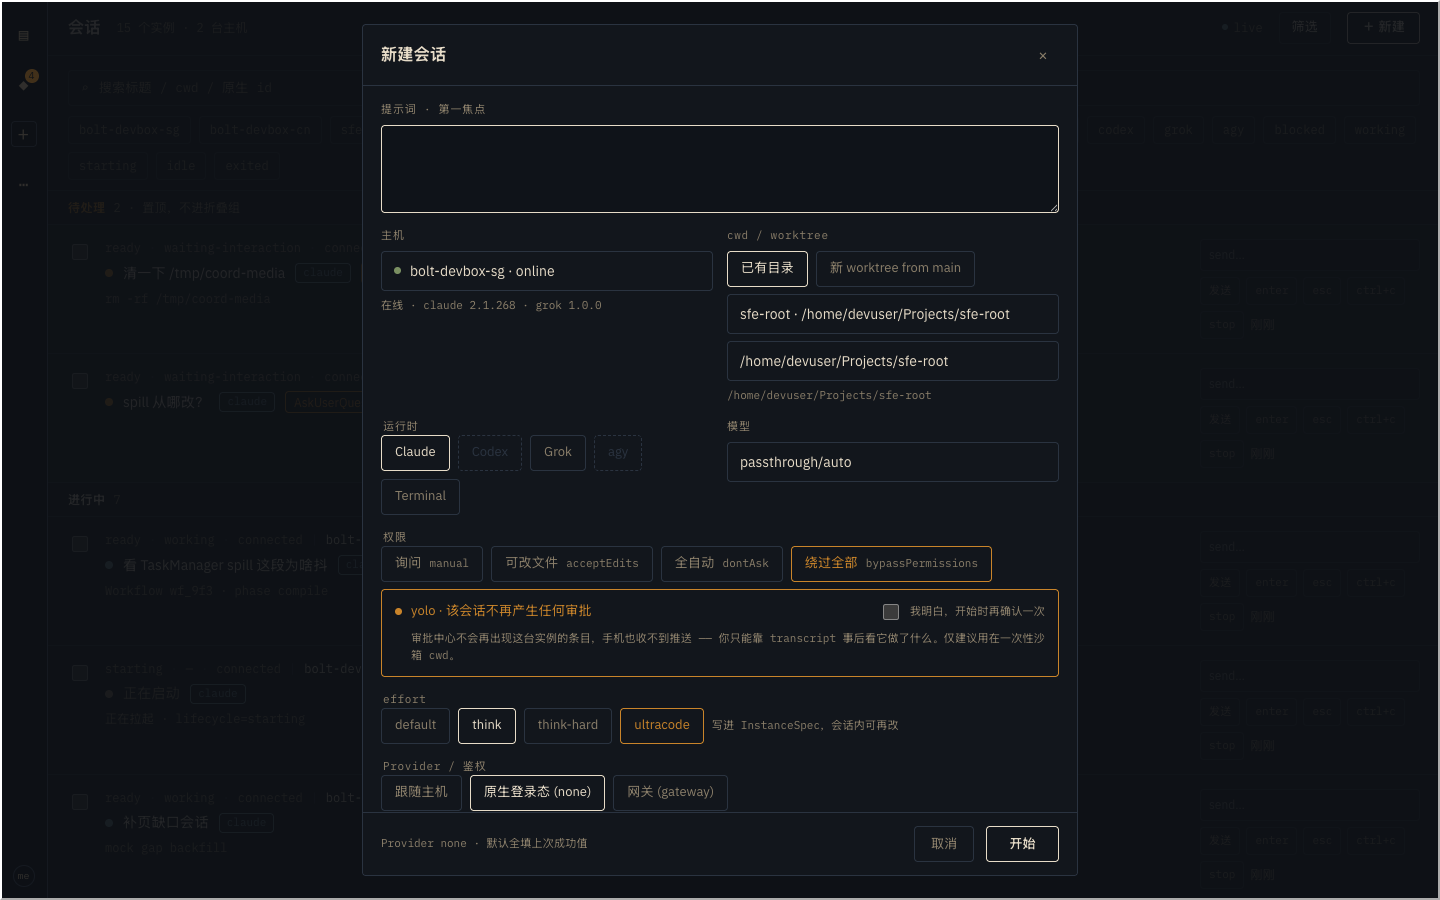
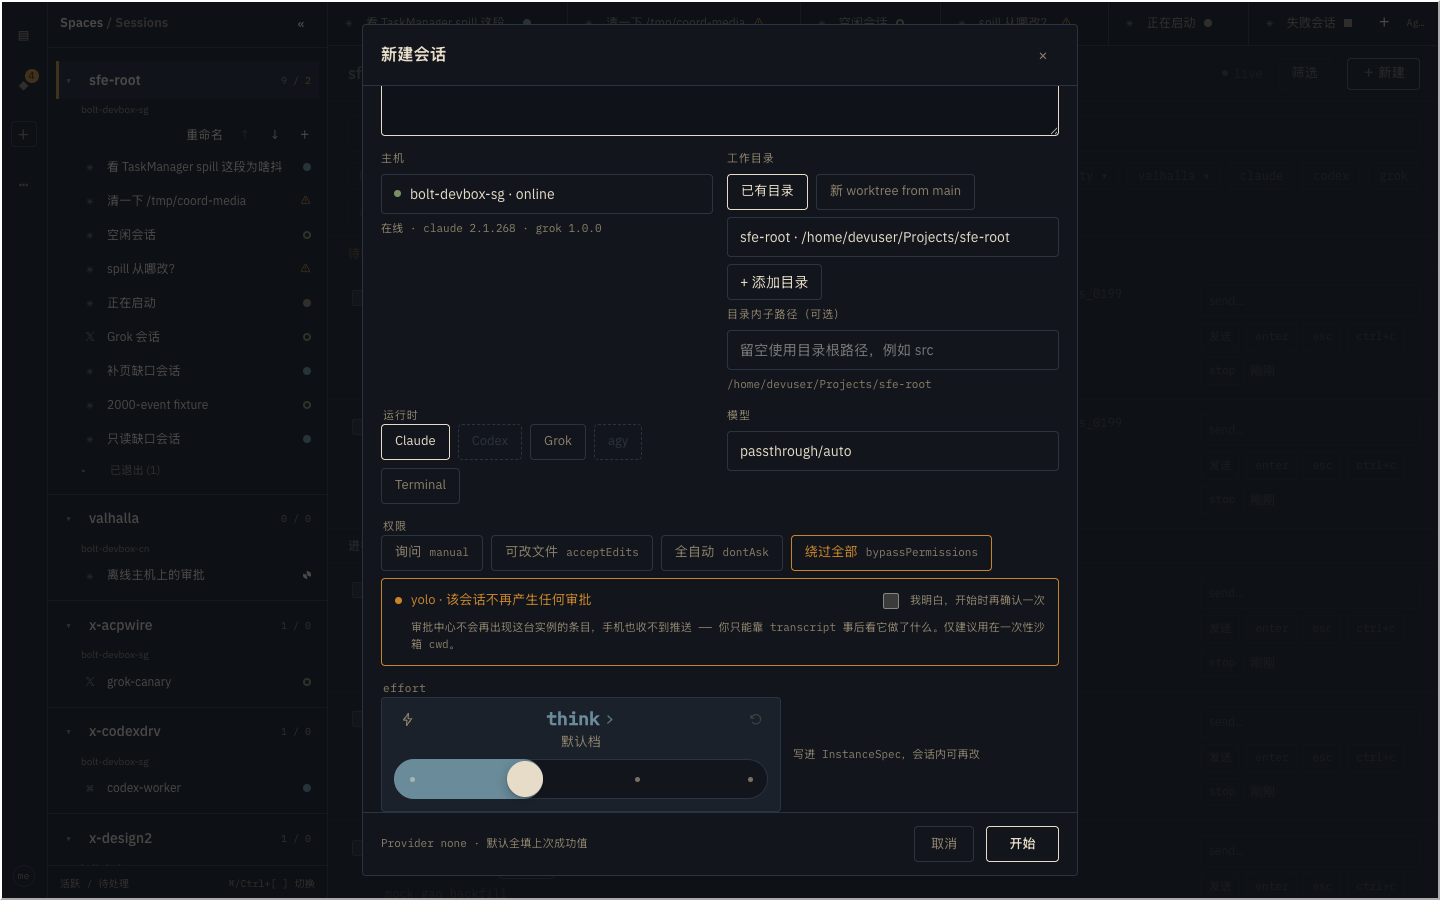
test(web): new-session slider e2e, and stop e2e rewriting tracked evidence
- new-session.spec.ts: the inline card's role/tiers/pill geometry and
  fill-reaches-knob; setting the tier by keyboard alone and asserting the
  created instance carries it; the harness re-snap end to end, including
  `terminal` unmounting the card entirely.
- composer-effort.spec.ts: its two New Session assertions move from the tier
  chips to the slider.
- Both specs wrote screenshots straight into docs/design/evidence/, so a plain
  `pnpm test:e2e` dirtied tracked PNGs. They now write to the gitignored
  web/test-results/ unless REMUDA_EVIDENCE=1, matching providers-discovery.
- The hint wraps under the card once the sheet is narrower than its 400px.

Evidence: docs/design/evidence/new-session-slider-1.md — night/ledger at
1440/390, mid and top tier, effort-card crops, largest 26 KB.

diff --git a/web/tests/e2e/new-session.spec.ts b/web/tests/e2e/new-session.spec.ts
@@ -1,8 +1,57 @@
-import { expect, test } from "@playwright/test";
+import { expect, test, type Page } from "@playwright/test";
+import { mkdir } from "node:fs/promises";
 import path from "node:path";
 import { fileURLToPath } from "node:url";
 
-const evidence = path.join(path.dirname(fileURLToPath(import.meta.url)), "../../../docs/design/evidence");
+const here = path.dirname(fileURLToPath(import.meta.url));
+/**
+ * A default run must not rewrite tracked files, so shots land in the
+ * gitignored `test-results/`. Re-capture the committed evidence with
+ * REMUDA_EVIDENCE=1.
+ */
+const evidence = process.env.REMUDA_EVIDENCE === "1";
+const shotDir = evidence
+  ? path.join(here, "../../../docs/design/evidence")
+  : path.join(here, "../../test-results/new-session");
+
+/** The effort card only, so no personal path or hostname can land in a shot. */
+async function shotEffort(page: Page, name: string) {
+  await mkdir(shotDir, { recursive: true });
+  const card = page.getByTestId("new-session-effort");
+  await card.scrollIntoViewIfNeeded();
+  const box = await card.boundingBox();
+  expect(box).toBeTruthy();
+  const viewport = page.viewportSize() ?? { width: 1440, height: 900 };
+  const x = Math.max(0, Math.floor(box!.x) - 8);
+  const y = Math.max(0, Math.floor(box!.y) - 8);
+  await page.screenshot({
+    path: path.join(shotDir, name),
+    animations: "disabled",
+    clip: {
+      x,
+      y,
+      width: Math.max(1, Math.min(viewport.width - x, Math.ceil(box!.width) + 16)),
+      height: Math.max(1, Math.min(viewport.height - y, Math.ceil(box!.height) + 16)),
+    },
+  });
+}
+
+/** The pill's proportions, shared with the composer: ~40px track, ~36px knob. */
+async function assertPill(page: Page) {
+  const pill = await page.getByTestId("new-session-effort-track").boundingBox();
+  const knob = await page.getByTestId("new-session-effort-knob").boundingBox();
+  const fill = await page.getByTestId("new-session-effort-fill").boundingBox();
+  expect(pill).toBeTruthy();
+  expect(knob).toBeTruthy();
+  expect(fill).toBeTruthy();
+  expect(pill!.height).toBeGreaterThanOrEqual(36);
+  expect(pill!.height).toBeLessThanOrEqual(42);
+  expect(knob!.width).toBeGreaterThanOrEqual(32);
+  expect(knob!.width).toBeLessThanOrEqual(38);
+  // The fill runs under the knob to its far edge — no bare track beside the thumb.
+  expect(fill!.x + fill!.width).toBeGreaterThanOrEqual(knob!.x + knob!.width - 1);
+  expect(fill!.x).toBeLessThanOrEqual(pill!.x + 1);
+}
 
 test.describe("new session sheet", () => {
   test("mobile 30s path: focus prompt, type, start", async ({ page }) => {
@@ -39,7 +88,111 @@ test.describe("new session sheet", () => {
     await expect(page.getByTestId("view-switch-tty")).toHaveAttribute("aria-checked", "true");
     await expect(page.getByTestId("view-switch-structured")).toHaveAttribute("aria-checked", "false");
     if (test.info().project.name === "chromium") {
-      await page.screenshot({ path: path.join(evidence, "terminal-1-new-session.png"), animations: "disabled" });
+      await mkdir(shotDir, { recursive: true });
+      await page.screenshot({ path: path.join(shotDir, "terminal-1-new-session.png"), animations: "disabled" });
+    }
+  });
+
+  test("effort is the composer's slider and the keyboard value reaches the created instance", async ({ page }) => {
+    await page.goto("/sessions/new");
+    await expect(page.getByTestId("new-session-sheet")).toBeVisible();
+    const slider = page.getByTestId("new-session-effort-slider");
+    // Inline card, not a popover: the pill is on the page with no chip to open.
+    await expect(page.getByTestId("new-session-effort-slider-panel")).toHaveAttribute("data-view", "slider");
+    await expect(slider).toHaveAttribute("role", "slider");
+    await expect(slider).toHaveAttribute("data-tiers", "default,think,think-hard,ultracode");
+    await expect(slider).toHaveAttribute("data-name", "think");
+    await expect(page.getByTestId("new-session-effort")).toContainText("写进 InstanceSpec，会话内可再改");
+    await assertPill(page);
+
+    // Set the tier by keyboard alone, the way a discrete slider must answer.
+    await slider.focus();
+    await page.keyboard.press("Home");
+    await expect(slider).toHaveAttribute("data-name", "default");
+    await expect(slider).toHaveAttribute("aria-valuenow", "0");
+    await page.keyboard.press("ArrowRight");
+    await page.keyboard.press("ArrowRight");
+    await expect(slider).toHaveAttribute("data-name", "think-hard");
+    await expect(page.getByTestId("new-session-effort-title")).toHaveText("think-hard");
+    await expect(slider).toHaveAttribute("data-ember", "0");
+    await page.keyboard.press("End");
+    await expect(slider).toHaveAttribute("data-name", "ultracode");
+    await expect(slider).toHaveAttribute("data-ember", "1");
+    await expect(page.getByTestId("new-session-effort-embers")).toBeVisible();
+    await assertPill(page);
+
+    // Back off the top so the asserted value is not simply the End default.
+    await page.keyboard.press("ArrowLeft");
+    await expect(slider).toHaveAttribute("data-name", "think-hard");
+    await expect(page.getByTestId("new-session-effort")).toHaveAttribute("data-effort", "think-hard");
+
+    await page.getByTestId("new-session-prompt").fill("effort by keyboard");
+    await page.getByTestId("new-session-start").click();
+    await expect(page).toHaveURL(/\/s\//);
+    // The created instance carries the tier the slider was left on.
+    await expect(page.getByTestId("composer")).toHaveAttribute("data-effort", "think-hard");
+    await expect(page.getByTestId("composer")).toHaveAttribute("data-effort-index", "2");
+    await expect(page.getByTestId("model-effort-chip")).toContainText("think-hard");
+  });
+
+  test("the slider re-snaps onto the harness selected above", async ({ page }) => {
+    await page.goto("/sessions/new");
+    const slider = page.getByTestId("new-session-effort-slider");
+    await slider.focus();
+    await page.keyboard.press("End");
+    await expect(slider).toHaveAttribute("data-name", "ultracode");
+
+    // grok's table is three tiers; the top tier stays the top tier.
+    await page.getByTestId("new-session-kind-grok").click();
+    await expect(slider).toHaveAttribute("data-tiers", "quick,standard,max");
+    await expect(slider).toHaveAttribute("data-name", "max");
+    await expect(slider).toHaveAttribute("aria-valuemax", "2");
+    await expect(slider).toHaveAttribute("data-ember", "1");
+    await slider.focus();
+    await page.keyboard.press("Home");
+    await expect(slider).toHaveAttribute("data-name", "quick");
+
+    // ...and back to claude, renamed onto the four-tier table, ember dropped.
+    await page.getByTestId("new-session-kind-claude").click();
+    await expect(slider).toHaveAttribute("data-tiers", "default,think,think-hard,ultracode");
+    await expect(slider).toHaveAttribute("data-name", "default");
+    await expect(slider).toHaveAttribute("data-ember", "0");
+
+    // terminal has no effort axis at all, so the whole card goes.
+    await page.getByTestId("new-session-kind-terminal").click();
+    await expect(page.getByTestId("new-session-effort")).toHaveCount(0);
+  });
+
+  test("new session slider evidence: night/ledger at 1440 and 390", async ({ page }, info) => {
+    test.skip(info.project.name !== "chromium", "evidence shots from chromium only");
+    await page.emulateMedia({ reducedMotion: "reduce" });
+    for (const theme of ["night", "ledger"] as const) {
+      for (const [width, height, tag] of [
+        [1440, 900, "1440"],
+        [390, 844, "390"],
+      ] as const) {
+        await page.setViewportSize({ width, height });
+        await page.goto("/sessions/new");
+        await page.evaluate((next) => {
+          document.documentElement.setAttribute("data-theme", next);
+        }, theme);
+        const slider = page.getByTestId("new-session-effort-slider");
+        await expect(slider).toBeVisible();
+        // mid = a middle non-top tier, top = the ember tier.
+        for (const [state, keys] of [
+          ["mid", ["Home", "ArrowRight", "ArrowRight"]],
+          ["top", ["End"]],
+        ] as const) {
+          await slider.focus();
+          for (const key of keys) await page.keyboard.press(key);
+          await expect(slider).toHaveAttribute("data-ember", state === "top" ? "1" : "0");
+          await assertPill(page);
+          const card = await page.getByTestId("new-session-effort-slider-panel").boundingBox();
+          expect(card).toBeTruthy();
+          expect(card!.width).toBeLessThanOrEqual(Math.min(width, 401));
+          await shotEffort(page, `new-session-slider-1-${state}-${theme}-${tag}.png`);
+        }
+      }
     }
   });
 });

diff --git a/web/tests/e2e/composer-effort.spec.ts b/web/tests/e2e/composer-effort.spec.ts
@@ -3,19 +3,28 @@ import { mkdir } from "node:fs/promises";
 import path from "node:path";
 import { fileURLToPath } from "node:url";
 
-const evidence = path.join(path.dirname(fileURLToPath(import.meta.url)), "../../../docs/design/evidence");
+const here = path.dirname(fileURLToPath(import.meta.url));
+/**
+ * A default run must not rewrite tracked files, so shots land in the
+ * gitignored `test-results/`. Re-capture the committed evidence with
+ * REMUDA_EVIDENCE=1.
+ */
+const evidence = process.env.REMUDA_EVIDENCE === "1";
+const shotDir = evidence
+  ? path.join(here, "../../../docs/design/evidence")
+  : path.join(here, "../../test-results/composer-effort");
 
 function row(page: Page, text: string) {
   return page.getByTestId("session-row").filter({ hasText: text }).first();
 }
 
 async function shot(page: Page, name: string) {
-  await mkdir(evidence, { recursive: true });
-  await page.screenshot({ path: path.join(evidence, name), animations: "disabled" });
+  await mkdir(shotDir, { recursive: true });
+  await page.screenshot({ path: path.join(shotDir, name), animations: "disabled" });
 }
 
 async function shotComposer(page: Page, name: string) {
-  await mkdir(evidence, { recursive: true });
+  await mkdir(shotDir, { recursive: true });
   const composer = page.getByTestId("composer");
   const menu = page.getByTestId("effort-menu");
   await expect(menu).toBeVisible();
@@ -29,7 +38,7 @@ async function shotComposer(page: Page, name: string) {
   const right = Math.min(viewport.width, Math.ceil(Math.max(a!.x + a!.width, b!.x + b!.width)));
   const bottom = Math.min(viewport.height, Math.ceil(Math.max(a!.y + a!.height, b!.y + b!.height)));
   await page.screenshot({
-    path: path.join(evidence, name),
+    path: path.join(shotDir, name),
     animations: "disabled",
     clip: { x, y, width: Math.max(1, right - x), height: Math.max(1, bottom - y) },
   });
@@ -269,8 +278,12 @@ test.describe("composer control bar and effort", () => {
       expect(ackBox).toBeTruthy();
       expect(ackBox!.y).toBeGreaterThanOrEqual(yoloBox!.y - 2);
       expect(ackBox!.y + ackBox!.height).toBeLessThanOrEqual(yoloBox!.y + yoloBox!.height + 2);
-      await expect(page.getByTestId("new-session-effort-think")).toBeVisible();
-      await expect(page.getByTestId("new-session-effort-ultracode")).toHaveAttribute("data-ember", "1");
+      // effort is the composer's slider inline, sized to the sheet's column.
+      await expect(page.getByTestId("new-session-effort-slider")).toBeVisible();
+      await expect(page.getByTestId("new-session-effort-title")).toHaveText("think");
+      const card = await page.getByTestId("new-session-effort-slider-panel").boundingBox();
+      expect(card).toBeTruthy();
+      expect(card!.width).toBeLessThanOrEqual(Math.min(width, 401));
       if (test.info().project.name === "chromium") {
         await shot(page, `composer-1-new-session-${width}.png`);
       }
@@ -283,10 +296,15 @@ test.describe("composer control bar and effort", () => {
     await page.getByTestId("settings-effort-ultracode").click();
     await expect(page.getByTestId("settings-effort-ultracode")).toHaveAttribute("data-selected", "1");
     await page.goto("/sessions/new");
-    await expect(page.getByTestId("new-session-effort-ultracode")).toHaveAttribute("data-selected", "1");
+    const slider = page.getByTestId("new-session-effort-slider");
+    await expect(slider).toHaveAttribute("data-name", "ultracode");
+    await expect(slider).toHaveAttribute("data-ember", "1");
+    // Switching the harness re-snaps onto the new native table, ember to ember.
     await page.getByTestId("new-session-kind-grok").click();
-    await expect(page.getByTestId("new-session-effort-max")).toHaveAttribute("data-selected", "1");
-    await expect(page.getByTestId("new-session-effort-max")).toHaveAttribute("data-ember", "1");
+    await expect(slider).toHaveAttribute("data-tiers", "quick,standard,max");
+    await expect(slider).toHaveAttribute("data-name", "max");
+    await expect(slider).toHaveAttribute("data-ember", "1");
+    await expect(page.getByTestId("new-session-effort-title")).toHaveText("max");
   });
 
   test("effort selection persists after reload", async ({ page }) => {

diff --git a/web/src/pages/NewSessionPage.module.css b/web/src/pages/NewSessionPage.module.css
@@ -220,8 +220,9 @@
   flex-wrap: wrap;
 }
 
+/* The card keeps its 400px until the sheet is narrower; then the hint wraps under it. */
 .effortRow > .hint {
-  flex: 1;
+  flex: 1 1 220px;
   min-width: 0;
 }
 

diff --git a/docs/design/evidence/new-session-slider-1.md b/docs/design/evidence/new-session-slider-1.md
@@ -1,0 +1,129 @@
+# New Session effort · the composer's slider, inline
+
+User feedback on the merged composer slider: 「这里的 effort 怎么不是滑块」 — the New
+Session sheet still picked effort with the old tier chips (`default` /
+`think` / `think-hard` / `ultracode`) while the composer had the Codex-style
+pill. Two pickers for one value, and the newer one only on one of the two
+surfaces that set it.
+
+Mock UI (`VITE_MOCK=1`, Playwright chromium against a local vite port). Night
+Corral (`night`) and Ledger (`ledger`). No live Hub ports, no personal paths,
+no hostnames — the shots are the effort card only.
+
+Implementation: `web/src/features/session/EffortSlider.tsx`,
+`session.module.css`, `web/src/pages/NewSessionPage.tsx`. Previous pass:
+[composer-slider-3.md](./composer-slider-3.md).
+
+## 1 · One slider, two mounts
+
+`EffortSlider` gained two props rather than being copied:
+
+| prop | default | New Session |
+|---|---|---|
+| `variant` | `"popover"` — the composer's menu frames the card | `"inline"` — the card frames itself |
+| `idPrefix` | `"effort"` | `"new-session-effort"` |
+| `footer` | `EFFORT_MENU_FOOTER` | 「写进 InstanceSpec，会话内可再改」 |
+
+`idPrefix` renames every `data-testid` the card emits (`<prefix>-slider`,
+`-track`, `-knob`, `-fill`, `-embers`, `-title`, `-model`, `-reset`,
+`-open-list`, `-list`, `-tier-<name>`, `-slider-panel`), so the two mounts are
+addressable apart and can coexist. The composer passes neither prop, so
+**every composer test id is unchanged** and its behaviour is untouched — the
+26 assertions in `composer-effort.spec.ts` still pass against it.
+
+There is no second tier table, no second keyboard map, no second snapping
+rule: `effort.ts` remains the only source, and the page no longer imports
+`effortTable` / `isEmberTier` at all.
+
+`.effortInline` is the only new CSS — the `.effortCard` body is shared:
+
+```css
+.effortInline {
+  width: min(400px, 100%);   /* the sheet's column; the popover keeps 300px */
+  border: 1px solid var(--line);
+  border-radius: var(--radius);
+  background: var(--ink-2);
+  padding: 8px 12px 12px;
+}
+```
+
+Everything else comes along unchanged: the compact head (bolt · tier name ·
+reset), the hint line under it, the dotted pill with the fill running **under**
+the knob to its far edge, the top tier's amber ember field, the knob's
+breathing halo, `prefers-reduced-motion`, the ≥ 44px touch targets, and the
+`›` list view for tier descriptions.
+
+## 2 · Snapping to the harness above
+
+The harness buttons (`claude` / `codex` / `grok` / `agy` / `terminal`) sit
+directly above the card, and the page already mapped the selection through
+`mapEffort` on switch. The card is mounted with `key={activeKind}`, so a
+switch remounts it: the pill re-snaps onto the new native table **and** any
+half-finished pointer draft inside the card is dropped with it, instead of the
+knob staying where the last drag left it on a table that no longer has that
+stop.
+
+| from | to | why |
+|---|---|---|
+| claude `think` (1/4) | codex `medium` (1/4) | same length, renamed in place |
+| claude `think` (1/4) | grok `standard` (1/3) | 1/3 along → nearest stop |
+| claude `ultracode` (top) | grok `max` (top) | top tier always lands on top |
+| grok `quick` (first) | claude `default` (first) | and the ember drops |
+| any | `terminal` | no effort axis → the whole card unmounts |
+
+`agy` has a single tier, so its pill sits at the ember end — the existing
+`effortRatio` rule, unchanged.
+
+## 3 · The value still goes into InstanceSpec
+
+Untouched. `sessionEffort` is still `effort.kind === activeKind ? effort :
+mapEffort(...)`, and `hubStore.create` still receives `effortIndex` /
+`effortName` from it, alongside `rememberNewSessionSuccess`. The
+「写进 InstanceSpec，会话内可再改」 hint stays beside the card (and repeats as
+the card's own footer in the list view). The fieldset carries
+`data-harness` / `data-effort` so a test can read the committed pair without
+reaching into the card.
+
+## Screenshots
+
+Effort-card crops, `animations: "disabled"`, so **the ember is captured as a
+static frame** — the drift and twinkle are not visible in a PNG. All ≤ 300 KB
+(largest 26 KB). `mid` = `think-hard` (non-top tier), `top` = `ultracode`
+(ember).
+
+| | night | ledger |
+|---|---|---|
+| mid · 1440 | [new-session-slider-1-mid-night-1440.png](./new-session-slider-1-mid-night-1440.png) | [new-session-slider-1-mid-ledger-1440.png](./new-session-slider-1-mid-ledger-1440.png) |
+| mid · 390 | [new-session-slider-1-mid-night-390.png](./new-session-slider-1-mid-night-390.png) | [new-session-slider-1-mid-ledger-390.png](./new-session-slider-1-mid-ledger-390.png) |
+| top · 1440 | [new-session-slider-1-top-night-1440.png](./new-session-slider-1-top-night-1440.png) | [new-session-slider-1-top-ledger-1440.png](./new-session-slider-1-top-ledger-1440.png) |
+| top · 390 | [new-session-slider-1-top-night-390.png](./new-session-slider-1-top-night-390.png) | [new-session-slider-1-top-ledger-390.png](./new-session-slider-1-top-ledger-390.png) |
+
+The card in the whole sheet: [composer-1-new-session-1440.png](./composer-1-new-session-1440.png)
+and [composer-1-new-session-390.png](./composer-1-new-session-390.png), both
+re-captured. At 390 the sheet is narrower than 400px, so the card takes the
+column and the hint wraps under it; at 1440 the hint sits beside it.
+
+**Evidence capture is opt-in.** Both `new-session.spec.ts` and
+`composer-effort.spec.ts` now write to the gitignored `web/test-results/`
+unless `REMUDA_EVIDENCE=1`, so a default `pnpm test:e2e` no longer rewrites
+tracked PNGs. (Previously both wrote straight into `docs/design/evidence/`.)
+
+## Tests
+
+- `pnpm --dir web test` — **288 passed, 59 files**. `NewSessionPage.test.tsx`
+  adds five: the slider replaces the chips; the harness switch re-snaps
+  (claude→codex→grok, names, indices, `data-tiers`); the top tier stays the
+  top tier across tables and the draft is dropped with the remount; and the
+  tier the slider is left on reaches `hubStore.create` as
+  `effortIndex`/`effortName`, before and after a harness switch.
+- `pnpm --dir web exec tsc -b` — clean. `pnpm --dir web lint` — no new warnings.
+- Playwright mock, `new-session.spec.ts` — 5 chromium / 4 mobile-webkit. New:
+  the inline card's role/tiers/pill geometry and fill-reaches-knob; setting
+  the tier **by keyboard** (`Home`, `ArrowRight`×2, `End`, `ArrowLeft`) and
+  asserting the **created** instance carries it (`composer[data-effort]` =
+  `think-hard`, `data-effort-index` = `2`); the harness re-snap end to end,
+  including `terminal` unmounting the card.
+- `composer-effort.spec.ts` — 13 chromium passed, 1 skipped (mobile-only touch
+  sizing); its two New Session assertions moved from the chips to the slider.
+- `pnpm --dir web run test:e2e:hub` — live Hub `instance.configure` drag and
+  keyboard, unchanged.
